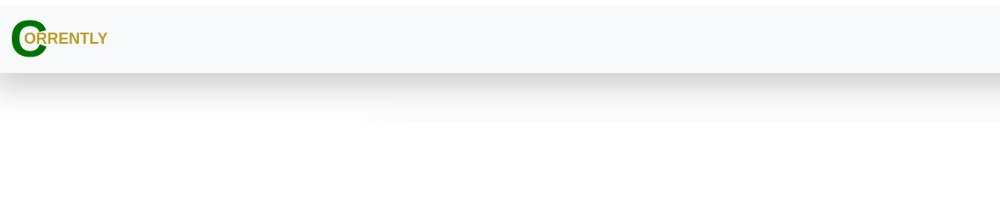
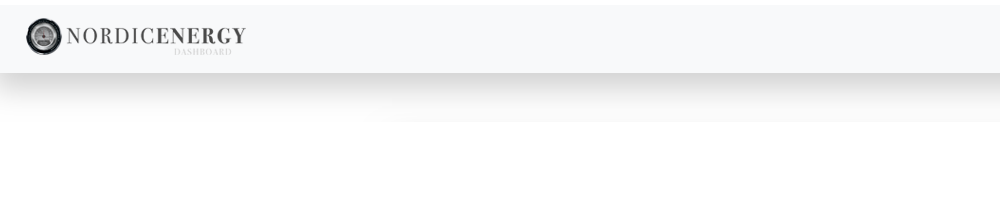
Upgrading

Changed region(s): [[0.0, 0.09, 0.248, 0.3]]

diff --git a/www/scan.html b/www/scan.html
@@ -63,8 +63,7 @@
   <body>
 
       <nav class="navbar navbar-expand-md navbar-light bg-light fixed-top shadow-lg">
-           <a class="navbar-brand" href="./main.html"><img src="./imgs/nordicenergy_logo.png" alt="Nordic Energy -
-Own electricity through electricity consumption"></a>
+           <a class="navbar-brand" href="./main.html"><img src="./imgs/nordicenergy_logo.png" alt="Nordic Energy - Own electricity through electricity consumption"></a>
            <button class="navbar-toggler" type="button" data-toggle="collapse" data-target="#navbarsExampleDefault" aria-controls="navbarsExampleDefault" aria-expanded="false" aria-label="Toggle navigation">
              <span class="navbar-toggler-icon"></span>
            </button>
@@ -72,13 +71,13 @@ Own electricity through electricity consumption"></a>
            <div class="collapse navbar-collapse" id="navbarsExampleDefault">
              <ul class="navbar-nav mr-auto">
                <li class="nav-item" style="">
-                 <a class="nav-link" href="./main.html">Mein Nordic Energy</a>
+                 <a class="nav-link" href="./main.html">My Energy</a>
                </li>
                <li class="nav-item active" style="">
                  <a class="nav-link" href="./wallet.html">Wallet</a>
                </li>
                <li class="nav-item">
-                 <a class="nav-link" href="https://coingate.com/pay/corrently-100" rel="noopener noreferrer nofollow" target="_blank">Nordic Energy kaufen</a>
+                 <a class="nav-link" href="https://nordocenergy.app/pay/nesc-100" rel="noopener noreferrer nofollow" target="_blank">buy energy</a>
                </li>
              </ul>
            </div>
@@ -89,14 +88,14 @@ Own electricity through electricity consumption"></a>
            <h2><label for="scan_account">Ethereum Account:</label></h2>
           <div class="form-group form-inline">
             <input class="form-control" type="text" id="scan_account" placeholder="0x123456"/>
-            <button type="button" class="btn btn-danger" id="scan_do">Öffnen</button>
+            <button type="button" class="btn btn-danger" id="scan_do">to open</button>
          </div>
          <div class="spacer" style="height:25px;"></div>
-          <h2>Jahreswerte</h2>
+          <h2>Annual values</h2>
            <div class="card-group shadow-lg">
              <div class="card text-dark bg-light">
                <div class="card-header bg-dark text-light">
-                 Bedarf
+                 Requirement
                </div>
                <div class="card-body" style="text-align:center">
                  <h1 class="text-warning">
@@ -106,7 +105,7 @@ Own electricity through electricity consumption"></a>
              </div>
              <div class="card text-dark bg-light">
                <div class="card-header bg-dark text-light">
-                 Erzeugung
+                Generation
                </div>
                <div class="card-body" style="text-align:center">
                  <h1 class="text-warning">
@@ -116,11 +115,11 @@ Own electricity through electricity consumption"></a>
              </div>
              <div class="card text-dark bg-light">
                <div class="card-header bg-dark text-light">
-                 Deckung
+                 Cover
                </div>
                <div class="card-body" style="text-align:center">
                  <h1 class="text-warning">
-                     <span class="scan_eigenstrom"></span>
+                     <span class="scan_self-powered"></span>
                  </h1>%
                </div>
              </div>
@@ -130,41 +129,41 @@ Own electricity through electricity consumption"></a>
             <div class="card-group shadow-lg">
             <div class="card text-dark bg-light">
               <div class="card-header bg-dark text-light">
-                Gesammelt
+                Collected
               </div>
               <div class="card-body" style="text-align:center">
                 <h1 class="text-warning">
                     <span class="scan_totalSupply"></span>
-                </h1>Nordic Energy
+                </h1>Total Supply
               </div>
             </div>
             <div class="card text-dark bg-light">
               <div class="card-header bg-dark text-light">
-                Eingelöst
+                Redeemed
               </div>
               <div class="card-body" style="text-align:center">
                 <h1 class="text-warning">
                     <span class="scan_convertedSupply"></span>
-                </h1>Nordic Energy
+                </h1>Converted Energy
               </div>
             </div>
             <div class="card text-dark bg-light">
               <div class="card-header bg-dark text-light">
-                Verfügbar
+                Available Supply
               </div>
               <div class="card-body" style="text-align:center">
                 <h1 class="text-warning">
                     <span class="scan_availableSupply"></span>
-                </h1>Nordic Energy
+                </h1>Energy Available
               </div>
             </div>
           </div>
             <div class="spacer" style="height:25px;"></div>
-            <h2>Ablesewerte</h2>
+            <h2>Readings</h2>
             <div class="card-group shadow-lg">
               <div class="card text-dark bg-light">
                 <div class="card-header bg-dark text-light">
-                  Erzeugung
+                  Generation
                 </div>
                 <div class="card-body" style="text-align:center">
                   <h1 class="text-warning">
@@ -174,7 +173,7 @@ Own electricity through electricity consumption"></a>
               </div>
               <div class="card text-dark bg-light">
                 <div class="card-header bg-dark text-light">
-                  Verbrauch
+                  Energy Consumption
                 </div>
                 <div class="card-body" style="text-align:center">
                   <h1 class="text-warning">
@@ -184,7 +183,7 @@ Own electricity through electricity consumption"></a>
               </div>
               <div class="card text-dark bg-light">
                 <div class="card-header bg-dark text-light">
-                  Saldo
+                  Balance
                 </div>
                 <div class="card-body" style="text-align:center">
                   <h1 class="text-warning">
@@ -198,8 +197,8 @@ Own electricity through electricity consumption"></a>
          </div>
        </div>
        <footer class="footer">
-      <p class="text-muted">© 2016-2018 NORDICENERGY - | <a href="https://stromdao.de/de/impressum">Impressum und Datenschutzhinweis</a> | <a href="https://stromdao.de/de/kontakt">Kontakt</a> |
-         <a href='./wallet.html' title='Ethereum Wallet/Account'><span class="address"></span></a> | <a href='#' id='logout'>abmelden</a></small>
+      <p class="text-muted">© 2018-2020 NORDICENERGY - | <a href="https://nordicenergy.co/en/impressum">Imprint and data protection notice</a> | <a href="https://nordicenergy.co/en/contact">Contact</a> |
+         <a href='./wallet.html' title='Ethereum Wallet/Account'><span class="address"></span></a> | <a href='#' id='logout'>sing out</a></small>
          </p>
        </footer>
     <script src="assets/js/main.min.js"></script>

diff --git a/www/solution.html b/www/solution.html
@@ -28,10 +28,10 @@
     <meta charset="utf-8">
     <meta name="viewport" content="width=device-width, initial-scale=1, shrink-to-fit=no">
     <meta http-equiv="x-ua-compatible" content="ie=edge">
-    <meta name="description" content="Nordic Energy ist wie das EEG, nur direkt und digital.">
-    <meta name="keywords" content="Stromtarif, Eigenstrom, NORDICENERGY, Blockchain, EEG">
+    <meta name="description" content="Nordic Energy is like the EEG, only direct and digital.">
+    <meta name="keywords" content="Electricity tariff, own electricity, NORDICENERGY, Blockchain, EEG">
     <meta name="author" content="Nordic Energy Corp">
-    <title>Nordic Energy - Erzeuger<<title>
+    <title>Nordic Energy - producer<<title>
     <link rel="shortcut icon" href="favicon.ico">
     <style>
     html {
@@ -63,8 +63,7 @@
   <body>
 
       <nav class="navbar navbar-expand-md navbar-light bg-light fixed-top shadow-lg">
-           <a class="navbar-brand" href="./main.html"><img src="./imgs/nordicenergy_logo.png" alt="Nordic Energy -
-Own electricity through electricity consumption"></a>
+           <a class="navbar-brand" href="./main.html"><img src="./imgs/nordicenergy_logo.png" alt="Nordic Energy - Own electricity through electricity consumption"></a>
            <button class="navbar-toggler" type="button" data-toggle="collapse" data-target="#navbarsExampleDefault" aria-controls="navbarsExampleDefault" aria-expanded="false" aria-label="Toggle navigation">
              <span class="navbar-toggler-icon"></span>
            </button>
@@ -72,10 +71,10 @@ Own electricity through electricity consumption"></a>
            <div class="collapse navbar-collapse" id="navbarsExampleDefault">
              <ul class="navbar-nav mr-auto">
                <li class="nav-item active" style="display:none">
-                 <a class="nav-link" href="./main.html">Mein Nordic Energy</a>
+                 <a class="nav-link" href="./main.html">My Energy</a>
                </li>
                <li class="nav-item" style="display:none">
-                 <a class="nav-link" href="./tarif.html">Tariff change</a>
+                 <a class="nav-link" href="./tarif.html">Electricity Tariff Change</a>
                </li>
              </ul>
            </div>
@@ -83,19 +82,19 @@ Own electricity through electricity consumption"></a>
 
         <div class="container">
            <div style="padding-top:33%;">
-              <h2><em>Nordic Energy ist wie das EEG, nur direkt und digital.</em></h2>
+              <h2><em>Nordic Energy Market is like the EEG, only direct and digital.</em></h2>
               <hr/>
               <ul>
-                <li>Die Entscheidung, welche Anlagen von den Stromkosten unterstützt werden, treffen die Kunden.</li>
-                <li>Keine Zwangsvermarktung von Erzeugungsleistung. Stattdessen Monetarisierung von Kapazitäten.</li>
-                <li>Echtes Digitales-Eigentum in einer öffentlichen Blockchain.</li>
+                <li>Customers decide which systems are to be supported by electricity costs.</li>
+                <li>No forced marketing of generation output. Instead, monetize capacity.</li>
+                <li>Real digital property in a public blockchain..</li>
               </ul>
            <div class="spacer" style="height:100px;"></div>
           </div>
        </div>
        <footer class="footer">
-      <p class="text-muted">© 2016-2018 NORDICENERGY - | <a href="https://stromdao.de/de/impressum">Impressum und Datenschutzhinweis</a> | <a href="https://stromdao.de/de/kontakt">Kontakt</a> |
-         <span class="address"></span> | <a href='#' id='privateKey'>Zugangsschlüssel</a> | <a href='#' id='logout'>abmelden</a></small>
+      <p class="text-muted">© 2018-2020 NORDICENERGY - | <a href="https://nordicenergy.co/en/impressum">Imprint and data protection notice</a> | <a href="https://nordicenergy.co/en/contact">Contact</a> |
+         <span class="address"></span> | <a href='#' id='privateKey'>access key</a> | <a href='#' id='logout'>sing out</a></small>
          </p>
        </footer>
     <script src="assets/js/main.min.js"></script>

diff --git a/www/0x41b7931ea8f072DcC77f1F682CD5A1273FF7DBE6.html b/www/0x41b7931ea8f072DcC77f1F682CD5A1273FF7DBE6.html
@@ -173,7 +173,7 @@ Own electricity through electricity consumption"></a>
          </div>
        </div>
        <footer class="footer">
-      <p class="text-muted">© 2018-2020 Nordic Energy - The Next Energy Generation | <a href="https://nordicenergy.io/en/impressum">Imprint and data protection notice</a> | <a href="https://nordicenergy.io/en/contact">Contact</a> |
+      <p class="text-muted">© 2018-2020 Nordic Energy - The Next Energy Generation | <a href="https://nordicenergy_logo.io/en/impressum">Imprint and data protection notice</a> | <a href="https://nordicenergy_logo.io/en/contact">Contact</a> |
          <a href='./wallet.html' title='Ethereum Wallet/Account'><span class="address"></span></a> | <a href='#' id='logout'>sing out</a></small>
          </p>
        </footer>
